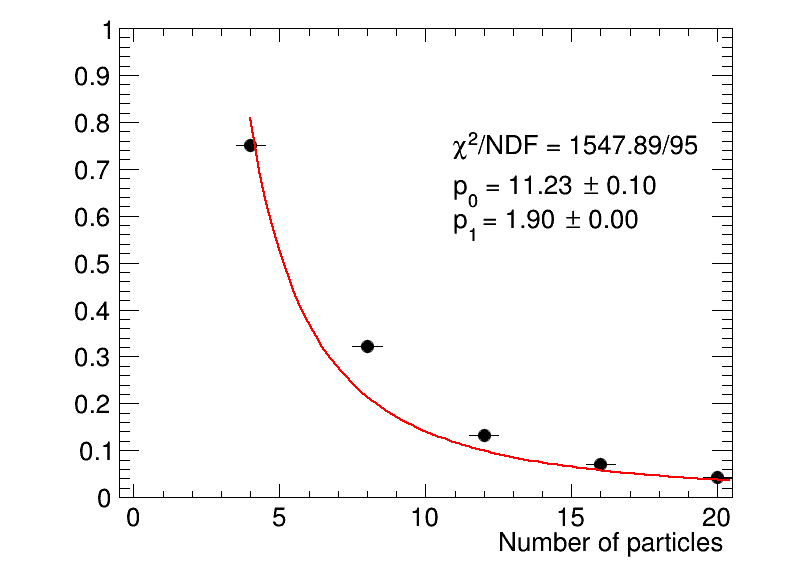
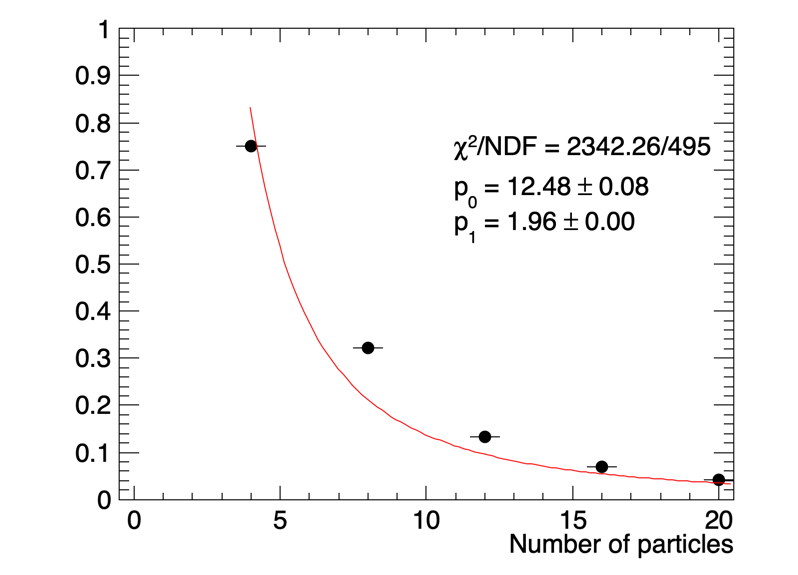
cumulant lcm hack added for testing

diff --git a/rng_cumulant.C b/rng_cumulant.C
@@ -82,6 +82,8 @@ void rng_cumulant()
   cumulant8 -> Add(h_24,-1.0);
   clean_histo(cumulant8,8);
   cumulant8->Scale(1.0/33.0); // c8 = 33v^8
+  fun8->SetParameter(0,10);
+  fun8->SetParameter(1,3);
   plotfit(cumulant8,fun8,"_c8");
 
 }
@@ -110,20 +112,20 @@ void plotfit(TH1D* histogram, TF1* fun, const char* handle)
   //tex->DrawLatex(xtex,ytex,"20");
   //c1->Print(Form("Figures/histogram%s_20.png",handle));
 
-  histogram->GetXaxis()->SetRangeUser(0,100);
+  histogram->GetXaxis()->SetRangeUser(0,500);
   histogram->Draw();
-  //tex->DrawLatex(xtex,ytex,"100");
-  //c1->Print(Form("Figures/histogram%s_100.png",handle));
+  //tex->DrawLatex(xtex,ytex,"500");
+  //c1->Print(Form("Figures/histogram%s_500.png",handle));
 
   c1->SetLogy(1);
   histogram->Draw();
-  //tex->DrawLatex(xtex,ytex,"100logy");
-  //c1->Print(Form("Figures/histogram%s_100logy.png",handle));
+  //tex->DrawLatex(xtex,ytex,"500logy");
+  //c1->Print(Form("Figures/histogram%s_500logy.png",handle));
 
   c1->SetLogx(1);
   histogram->Draw();
-  //tex->DrawLatex(xtex,ytex,"100logx/y");
-  //c1->Print(Form("Figures/histogram%s_100logylogx.png",handle));
+  //tex->DrawLatex(xtex,ytex,"500logx/y");
+  //c1->Print(Form("Figures/histogram%s_500logylogx.png",handle));
 
   // --- redraw the same histograms above but with the fit
 
@@ -138,9 +140,12 @@ void plotfit(TH1D* histogram, TF1* fun, const char* handle)
   ytex = 0.66;
   tex->DrawLatex(xtex,ytex,Form("p_{0} = %.2f #pm %.2f",par,epar));
   xtex = 0.57;
+  ytex = 0.60;
+  tex3->DrawLatex(xtex,ytex,Form("p_{1} = %.2f #pm %.2f",par1,epar1));
+  xtex = 0.57;
   ytex = 0.73;
   tex2->DrawLatex(xtex,ytex,Form("#chi^{2}/NDF = %.2f/%d",chi2,ndf));
-  c1->Print(Form("Figures/histogram%s_fit_100logylogx.png",handle));
+  c1->Print(Form("Figures/histogram%s_fit_500logylogx.png",handle));
 
   c1->SetLogx(0);
   histogram->Draw();
@@ -148,9 +153,12 @@ void plotfit(TH1D* histogram, TF1* fun, const char* handle)
   ytex = 0.66;
   tex->DrawLatex(xtex,ytex,Form("p_{0} = %.2f #pm %.2f",par,epar));
   xtex = 0.57;
+  ytex = 0.60;
+  tex3->DrawLatex(xtex,ytex,Form("p_{1} = %.2f #pm %.2f",par1,epar1));
+  xtex = 0.57;
   ytex = 0.73;
   tex2->DrawLatex(xtex,ytex,Form("#chi^{2}/NDF = %.2f/%d",chi2,ndf));
-  c1->Print(Form("Figures/histogram%s_fit_100logy.png",handle));
+  c1->Print(Form("Figures/histogram%s_fit_500logy.png",handle));
 
   c1->SetLogy(0);
   histogram->Draw();
@@ -159,6 +167,9 @@ void plotfit(TH1D* histogram, TF1* fun, const char* handle)
   xtex = 0.57;
   ytex = 0.66;
   tex->DrawLatex(xtex,ytex,Form("p_{0} = %.2f #pm %.2f",par,epar));
+  xtex = 0.57;
+  ytex = 0.60;
+  tex3->DrawLatex(xtex,ytex,Form("p_{1} = %.2f #pm %.2f",par1,epar1));
   xtex = 0.57;
   ytex = 0.73;
   tex2->DrawLatex(xtex,ytex,Form("#chi^{2}/NDF = %.2f/%d",chi2,ndf));
@@ -187,6 +198,11 @@ void clean_histo(TH1D* h, int n)
   for ( int i = 0; i < h->GetNbinsX(); ++i )
     {
       int bin = i+1;
+      int lcm = 0;
+      if ( n == 2 ) lcm = 2;
+      if ( n == 4 ) lcm = 4;
+      if ( n == 6 ) lcm = 12;
+      if ( n == 8 ) lcm = 24;
       if ( i%n != 0 )
         {
           h->SetBinContent(bin,-9999.9);
